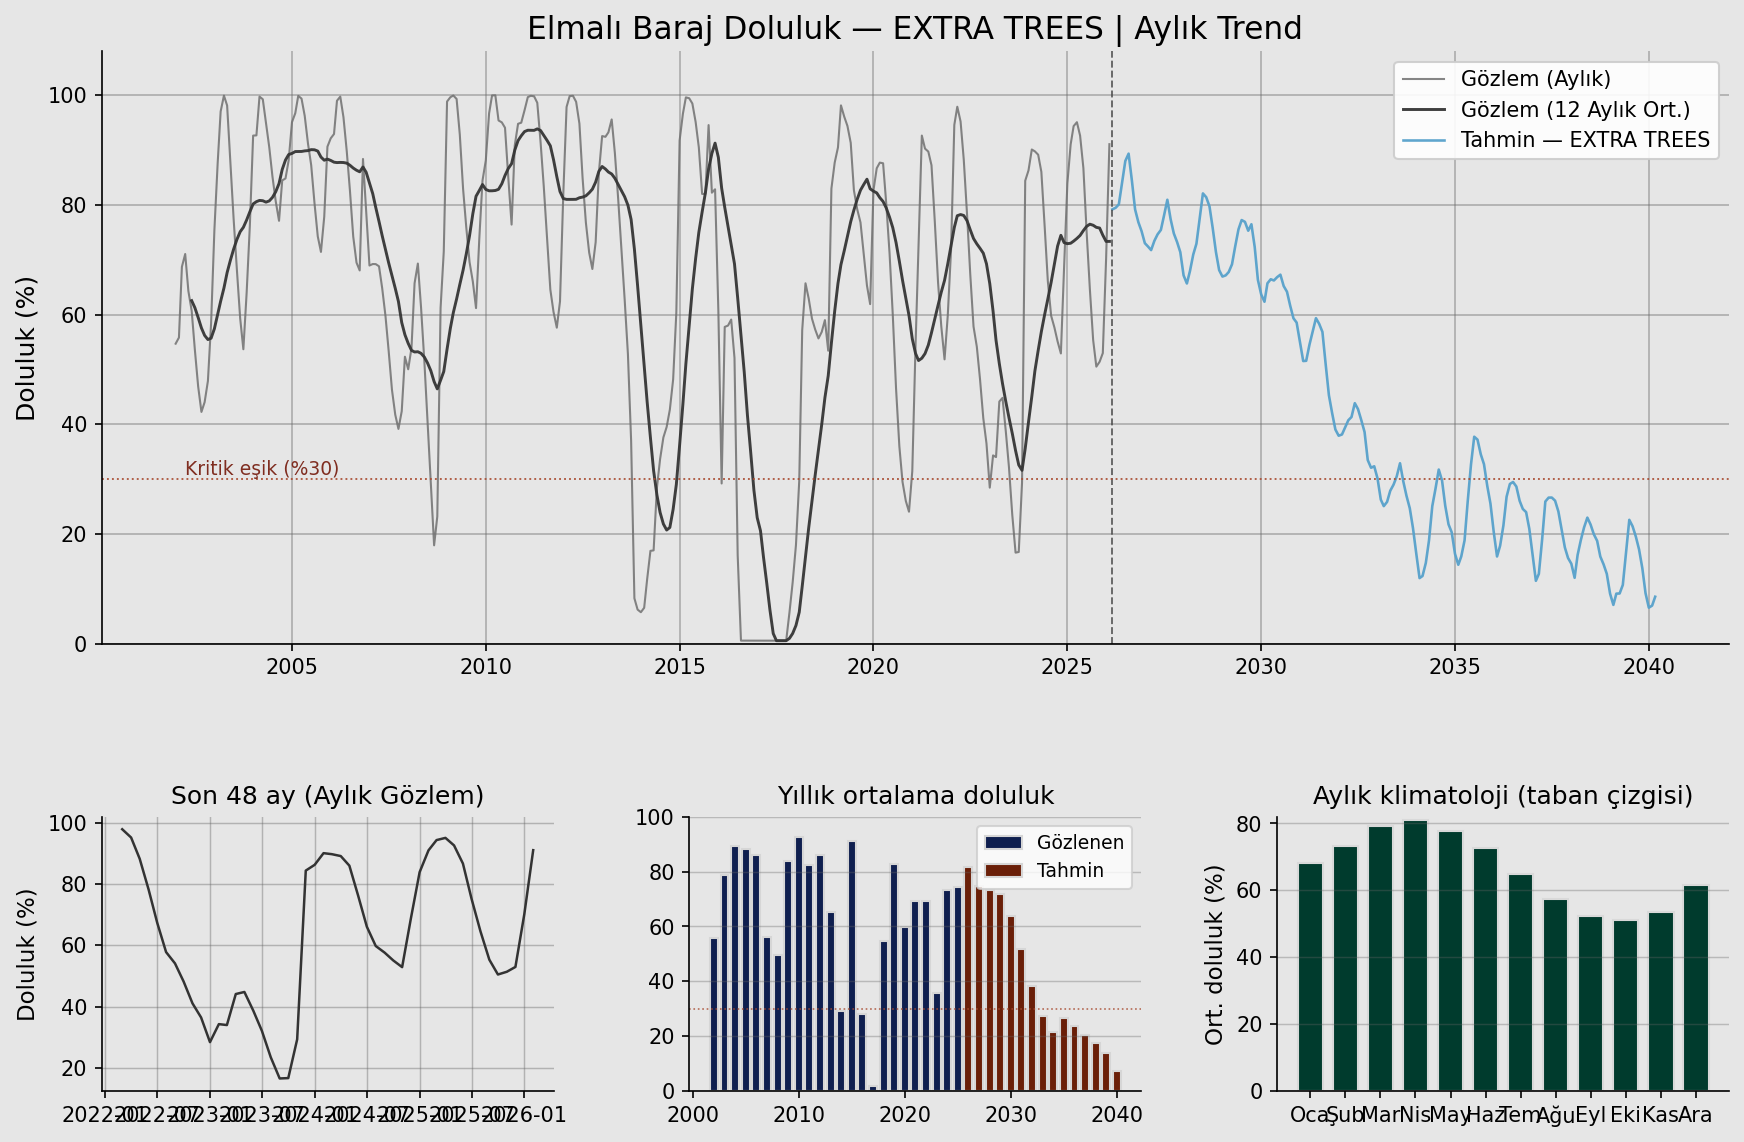
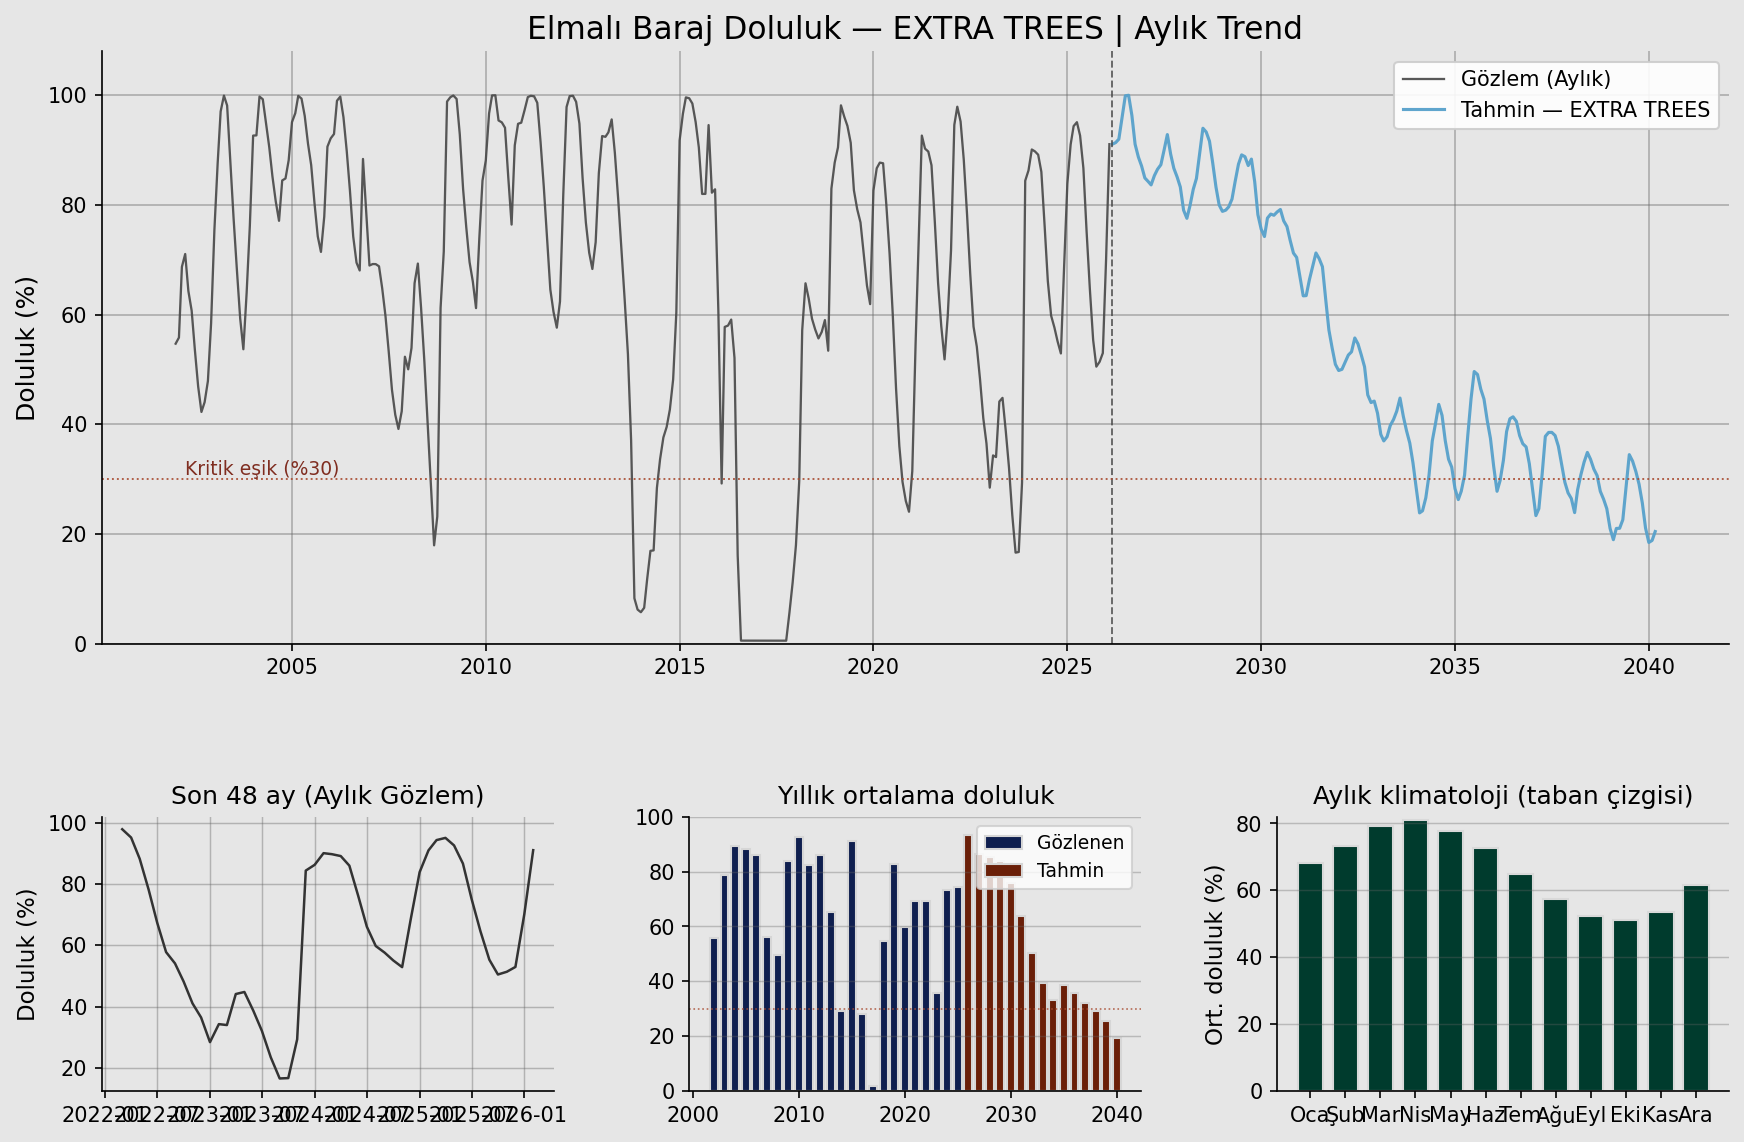
Temizle V4 terimleri, Elmalı 12 aylık ortalamayı kaldır, tahmin geçişini düzelt

diff --git a/baraj_web/index.html b/baraj_web/index.html
@@ -397,7 +397,7 @@
             <li><strong>Matematiksel Motor:</strong> Dışsal değişkenlere (sıcaklık, nem) ve geçmişin gecikmeli kopyalarına dayanır. Hareketli Ortalamalar (Moving Average) ve Entegre (I) fark denklemleri yardımıyla veri yığınlarındaki gürültüyü ayrıştırır.</li>
             <li><strong>Simülasyon Karakteristiği:</strong> Verinin "zamanla olan yapısal ilişkisi" üzerinden projeksiyon yapar. Makine öğrenmesi harmanlaması yerine saf trendi gösterir ve <em>Stochastic Residuals (Fraktal Gürültü)</em> ile iklim volatilitesini geleceğe taşır. Yüksek yaz/kış genliğine sahiptir.</li>
           </ul>
-          <p style="font-size:0.85rem;color:var(--accent);margin-top:10px;"><strong>Kullanım Bağlamı:</strong> Ani iklim şokları, mevsimsel anomali kırılmaları ve seri bağımlılığı birlikte değerlendirilirken öncelikli modeldir.</p>
+          <p style="font-size:0.85rem;color:var(--accent);margin-top:10px;"><strong>Kullanım Bağlamı:</strong> Ani iklim şokları, mevsimsel sapma kırılmaları ve seri bağımlılığı birlikte değerlendirilirken öncelikli modeldir.</p>
         </div>
 
         <div class="card">
@@ -435,7 +435,7 @@
             <li><strong>Matematiksel Motor:</strong> 2007, 2014 ve 2023 yıllarındaki şiddetli İstanbul kuraklıklarının modelli saptırmasına izin vermez. Mutlak Hata ve Karesel Hata arasında bir eşik kurarak aykırı şokları sönümler.</li>
             <li><strong>Simülasyon Karakteristiği:</strong> Ekstrem şokların merkez eğilimi bozmasını sınırlar; ana trend hattını daha dayanıklı ve dengeli biçimde korur.</li>
           </ul>
-          <p style="font-size:0.85rem;color:var(--accent);margin-top:10px;"><strong>Kullanım Bağlamı:</strong> İklim verisindeki aşırı anomali değerlerinden (outlier) etkilenmeyen dayanıklı (robust) trendlere bakarken yararlıdır.</p>
+          <p style="font-size:0.85rem;color:var(--accent);margin-top:10px;"><strong>Kullanım Bağlamı:</strong> İklim verisindeki aşırı sapma değerlerinden (outlier) etkilenmeyen dayanıklı (robust) trendlere bakarken yararlıdır.</p>
         </div>
 
         <div class="card">
@@ -558,7 +558,7 @@
 
     <section id="gemini-modeller">
       <h2>Gelişmiş Model Kataloğu (Sürüm 4 — 17 Model)</h2>
-      <p class="note">Sürüm 4 (V4), model ailesinin güncel üretim sürümüdür. Bu bölümdeki terimler sade karşılıklarıyla: <strong>logit</strong> (doluluğu 0–100 aralığında tutan dönüşüm), <strong>anomali</strong> (mevsim normalinden sapma), <strong>fizik</strong> (su dengesi kısıtları), <strong>konformal</strong> (belirsizlik aralığı kalibrasyonu).</p>
+      <p class="note">Sürüm 4 (V4), model ailesinin güncel üretim sürümüdür; tüm modeller aynı veri hazırlama, eğitim ve doğrulama protokolüyle üretilmiştir.</p>
 
       <div class="card" style="border-left: 5px solid var(--accent); background-color: rgba(67, 97, 238, 0.05); margin-bottom: 30px;">
         <h3 style="color: var(--accent); margin-top: 5px; margin-bottom: 15px;">📍 Kullanım Rehberi: Hangi Modele, Hangi Durumda Bakılmalı?</h3>
@@ -567,7 +567,7 @@
           <li><strong>Ortalama ve En Gerçekçi Gelecek Beklentisi:</strong> <span style="color: var(--accent); font-weight: bold;">ENSEMBLE_MEDIAN</span> veya <span style="font-weight: bold;">STACKING</span>. Aşırı senaryoları törpüler, en güvenli rotayı çizer.</li>
           <li><strong>En Kötü Senaryo (Şiddetli Kuraklık / Kriz) Analizi:</strong> <span style="color: #d90429; font-weight: bold;">QuantileGBM-10</span> (kesin kötümser), <span style="font-weight: bold;">SVR</span> veya <span style="font-weight: bold;">Budyko_Physics</span>. Su seviyesinin diplere vurma ihtimalini görmek için bakılmalıdır.</li>
           <li><strong>Uzun Vadeli Stabil Trend (Yönsüz):</strong> <span style="color: #2b9348; font-weight: bold;">Ridge</span>, <span style="font-weight: bold;">BayesianRidge</span> veya <span style="font-weight: bold;">ElasticNet</span>. Geçmiş su tüketim ivmesinin, gürültüden arındırılmış saf lineer gidişatını izlemek için yararlıdır.</li>
-          <li><strong>Ani İklim Şokları ve Mevsimsel Kırılmalar:</strong> <span style="color: #f77f00; font-weight: bold;">XGBoost</span>, <span style="font-weight: bold;">CatBoost</span>, <span style="font-weight: bold;">NGBoost</span> veya <span style="font-weight: bold;">ARIMAX</span>. Beklenmedik dalgalanmaları ve hidrolojik anomalileri simüle etmek için kritiktir.</li>
+          <li><strong>Ani İklim Şokları ve Mevsimsel Kırılmalar:</strong> <span style="color: #f77f00; font-weight: bold;">XGBoost</span>, <span style="font-weight: bold;">CatBoost</span>, <span style="font-weight: bold;">NGBoost</span> veya <span style="font-weight: bold;">ARIMAX</span>. Beklenmedik dalgalanmaları ve hidrolojik sapmaları simüle etmek için kritiktir.</li>
           <li><strong>Doğal Varyans (Tahminden Ziyade Desen):</strong> <span style="font-weight: bold;">RF (Random Forest)</span>, <span style="font-weight: bold;">ETR</span> veya <span style="font-weight: bold;">GBM_Q50</span>.</li>
         </ul>
       </div>
@@ -817,7 +817,7 @@
             <li>CV Pearson: <strong>0.734</strong> &middot; RMSE: <strong>40.48</strong>&thinsp;pp</li>
             <li>ε=1.20 — aşırı değerlere dayanıklı robust regresyon</li>
           </ul>
-          <p style="font-size:0.85rem;color:var(--accent);margin-top:10px;"><strong style="color:var(--accent);">Kullanım Bağlamı:</strong> İklim verisindeki aşırı anomali değerlerinden (outlier) etkilenmeyen dayanıklı (robust) trendlere bakarken yararlıdır.</p>
+          <p style="font-size:0.85rem;color:var(--accent);margin-top:10px;"><strong style="color:var(--accent);">Kullanım Bağlamı:</strong> İklim verisindeki aşırı sapma değerlerinden (outlier) etkilenmeyen dayanıklı (robust) trendlere bakarken yararlıdır.</p>
           <img class="zoomable" src="assets/v3/huber_v3_projection.png?v=20260322" alt="Huber v3"/>
         </div>
       </div>

diff --git a/index.html b/index.html
@@ -397,7 +397,7 @@
             <li><strong>Matematiksel Motor:</strong> Dışsal değişkenlere (sıcaklık, nem) ve geçmişin gecikmeli kopyalarına dayanır. Hareketli Ortalamalar (Moving Average) ve Entegre (I) fark denklemleri yardımıyla veri yığınlarındaki gürültüyü ayrıştırır.</li>
             <li><strong>Simülasyon Karakteristiği:</strong> Verinin "zamanla olan yapısal ilişkisi" üzerinden projeksiyon yapar. Makine öğrenmesi harmanlaması yerine saf trendi gösterir ve <em>Stochastic Residuals (Fraktal Gürültü)</em> ile iklim volatilitesini geleceğe taşır. Yüksek yaz/kış genliğine sahiptir.</li>
           </ul>
-          <p style="font-size:0.85rem;color:var(--accent);margin-top:10px;"><strong>Kullanım Bağlamı:</strong> Ani iklim şokları, mevsimsel anomali kırılmaları ve seri bağımlılığı birlikte değerlendirilirken öncelikli modeldir.</p>
+          <p style="font-size:0.85rem;color:var(--accent);margin-top:10px;"><strong>Kullanım Bağlamı:</strong> Ani iklim şokları, mevsimsel sapma kırılmaları ve seri bağımlılığı birlikte değerlendirilirken öncelikli modeldir.</p>
         </div>
 
         <div class="card">
@@ -435,7 +435,7 @@
             <li><strong>Matematiksel Motor:</strong> 2007, 2014 ve 2023 yıllarındaki şiddetli İstanbul kuraklıklarının modelli saptırmasına izin vermez. Mutlak Hata ve Karesel Hata arasında bir eşik kurarak aykırı şokları sönümler.</li>
             <li><strong>Simülasyon Karakteristiği:</strong> Ekstrem şokların merkez eğilimi bozmasını sınırlar; ana trend hattını daha dayanıklı ve dengeli biçimde korur.</li>
           </ul>
-          <p style="font-size:0.85rem;color:var(--accent);margin-top:10px;"><strong>Kullanım Bağlamı:</strong> İklim verisindeki aşırı anomali değerlerinden (outlier) etkilenmeyen dayanıklı (robust) trendlere bakarken yararlıdır.</p>
+          <p style="font-size:0.85rem;color:var(--accent);margin-top:10px;"><strong>Kullanım Bağlamı:</strong> İklim verisindeki aşırı sapma değerlerinden (outlier) etkilenmeyen dayanıklı (robust) trendlere bakarken yararlıdır.</p>
         </div>
 
         <div class="card">
@@ -558,7 +558,7 @@
 
     <section id="gemini-modeller">
       <h2>Gelişmiş Model Kataloğu (Sürüm 4 — 17 Model)</h2>
-      <p class="note">Sürüm 4 (V4), model ailesinin güncel üretim sürümüdür. Bu bölümdeki terimler sade karşılıklarıyla: <strong>logit</strong> (doluluğu 0–100 aralığında tutan dönüşüm), <strong>anomali</strong> (mevsim normalinden sapma), <strong>fizik</strong> (su dengesi kısıtları), <strong>konformal</strong> (belirsizlik aralığı kalibrasyonu).</p>
+      <p class="note">Sürüm 4 (V4), model ailesinin güncel üretim sürümüdür; tüm modeller aynı veri hazırlama, eğitim ve doğrulama protokolüyle üretilmiştir.</p>
 
       <div class="card" style="border-left: 5px solid var(--accent); background-color: rgba(67, 97, 238, 0.05); margin-bottom: 30px;">
         <h3 style="color: var(--accent); margin-top: 5px; margin-bottom: 15px;">📍 Kullanım Rehberi: Hangi Modele, Hangi Durumda Bakılmalı?</h3>
@@ -567,7 +567,7 @@
           <li><strong>Ortalama ve En Gerçekçi Gelecek Beklentisi:</strong> <span style="color: var(--accent); font-weight: bold;">ENSEMBLE_MEDIAN</span> veya <span style="font-weight: bold;">STACKING</span>. Aşırı senaryoları törpüler, en güvenli rotayı çizer.</li>
           <li><strong>En Kötü Senaryo (Şiddetli Kuraklık / Kriz) Analizi:</strong> <span style="color: #d90429; font-weight: bold;">QuantileGBM-10</span> (kesin kötümser), <span style="font-weight: bold;">SVR</span> veya <span style="font-weight: bold;">Budyko_Physics</span>. Su seviyesinin diplere vurma ihtimalini görmek için bakılmalıdır.</li>
           <li><strong>Uzun Vadeli Stabil Trend (Yönsüz):</strong> <span style="color: #2b9348; font-weight: bold;">Ridge</span>, <span style="font-weight: bold;">BayesianRidge</span> veya <span style="font-weight: bold;">ElasticNet</span>. Geçmiş su tüketim ivmesinin, gürültüden arındırılmış saf lineer gidişatını izlemek için yararlıdır.</li>
-          <li><strong>Ani İklim Şokları ve Mevsimsel Kırılmalar:</strong> <span style="color: #f77f00; font-weight: bold;">XGBoost</span>, <span style="font-weight: bold;">CatBoost</span>, <span style="font-weight: bold;">NGBoost</span> veya <span style="font-weight: bold;">ARIMAX</span>. Beklenmedik dalgalanmaları ve hidrolojik anomalileri simüle etmek için kritiktir.</li>
+          <li><strong>Ani İklim Şokları ve Mevsimsel Kırılmalar:</strong> <span style="color: #f77f00; font-weight: bold;">XGBoost</span>, <span style="font-weight: bold;">CatBoost</span>, <span style="font-weight: bold;">NGBoost</span> veya <span style="font-weight: bold;">ARIMAX</span>. Beklenmedik dalgalanmaları ve hidrolojik sapmaları simüle etmek için kritiktir.</li>
           <li><strong>Doğal Varyans (Tahminden Ziyade Desen):</strong> <span style="font-weight: bold;">RF (Random Forest)</span>, <span style="font-weight: bold;">ETR</span> veya <span style="font-weight: bold;">GBM_Q50</span>.</li>
         </ul>
       </div>
@@ -817,7 +817,7 @@
             <li>CV Pearson: <strong>0.734</strong> &middot; RMSE: <strong>40.48</strong>&thinsp;pp</li>
             <li>ε=1.20 — aşırı değerlere dayanıklı robust regresyon</li>
           </ul>
-          <p style="font-size:0.85rem;color:var(--accent);margin-top:10px;"><strong style="color:var(--accent);">Kullanım Bağlamı:</strong> İklim verisindeki aşırı anomali değerlerinden (outlier) etkilenmeyen dayanıklı (robust) trendlere bakarken yararlıdır.</p>
+          <p style="font-size:0.85rem;color:var(--accent);margin-top:10px;"><strong style="color:var(--accent);">Kullanım Bağlamı:</strong> İklim verisindeki aşırı sapma değerlerinden (outlier) etkilenmeyen dayanıklı (robust) trendlere bakarken yararlıdır.</p>
           <img class="zoomable" src="assets/v3/huber_v3_projection.png?v=20260322" alt="Huber v3"/>
         </div>
       </div>

diff --git a/baraj_web/elmali.html b/baraj_web/elmali.html
@@ -583,7 +583,6 @@
     <h3>Aylık Ortalama Doluluk Oranı (%)</h3>
     <div class="legend-row">
       <span><span class="leg-dot" style="background:#1765a3;"></span>Doluluk %</span>
-      <span><span class="leg-dot" style="background:#0b2a3c; border-radius:0; height:3px; width:18px;"></span>12 Aylık Ortalama</span>
       <span><span class="leg-dot" style="background:#d65a3a; border-radius:0; height:3px; width:18px;"></span>Kritik (%20)</span>
       <span><span class="leg-dot" style="background:#f4b942; border-radius:0; height:3px; width:18px;"></span>Düşük (%40)</span>
       <span><span class="leg-dot" style="background:#2b9348; border-radius:0; height:3px; width:18px;"></span>Güvenli (%80)</span>
@@ -991,15 +990,6 @@ const YEARLY_INTERCEPT = Number.isFinite(Number(ELMALI_STATS.trend_intercept))
   ? Number(ELMALI_STATS.trend_intercept)
   : 1374.4;
 
-function movingAverage(values, win = 12) {
-  return values.map((_, i) => {
-    const a = Math.max(0, i - win + 1);
-    const part = values.slice(a, i + 1).filter((v) => Number.isFinite(v));
-    if (!part.length) return null;
-    return part.reduce((s, v) => s + v, 0) / part.length;
-  });
-}
-
 function toYYYYMM(dateStr) {
   if (!dateStr) return '';
   return String(dateStr).slice(0, 7);
@@ -1046,14 +1036,12 @@ const COLOR_SUN    = '#f4b942';
   const labels = MONTHLY_SERIES.map((d) => toYYYYMM(d.date));
   const data = MONTHLY_SERIES.map((d) => d.fill_avg_pct);
   const colors = data.map((v) => (v < 25 ? COLOR_ACCENT : v < 50 ? COLOR_SUN : v > 80 ? COLOR_OK : COLOR_SEA));
-  const ma12 = movingAverage(data, 12).map((v) => (v === null ? null : Number(v.toFixed(2))));
   new Chart(document.getElementById('chartTarihsel'),{
     type:'line',
     data:{
       labels,
       datasets:[
-        {label:'Aylık Ort. Doluluk %',data,borderColor:COLOR_SEA,backgroundColor:hexToRgba(COLOR_SEA,0.12),pointBackgroundColor:colors,pointRadius:1.7,pointHoverRadius:4,borderWidth:1.8,fill:true,tension:0.2,order:2},
-        {label:'12 Aylık Ortalama',data:ma12,type:'line',borderColor:COLOR_DEEP,borderWidth:2.1,borderDash:[6,3],pointRadius:0,fill:false,order:1}
+        {label:'Aylık Ort. Doluluk %',data,borderColor:COLOR_SEA,backgroundColor:hexToRgba(COLOR_SEA,0.12),pointBackgroundColor:colors,pointRadius:1.7,pointHoverRadius:4,borderWidth:1.8,fill:true,tension:0.2,order:2}
       ]
     },
     options:{
@@ -2531,7 +2519,7 @@ document.addEventListener('DOMContentLoaded', () => {
     });
   });
 
-  const galleryVersion = '20260326-4';
+  const galleryVersion = '20260326-5';
   const modal = document.getElementById('img-modal');
   const modalImg = document.getElementById('img-modal-image');
   const modalCap = document.getElementById('img-modal-caption');

diff --git a/README.md b/README.md
@@ -48,7 +48,7 @@ Hackhaton/
 - Ensemble ve konsensus paketleri: farklı model ailelerinden stabil birleşimler
 - Su dengesi ve senaryo simülasyonları: iklim, kullanım ve buharlaşma etkileri ile hacim tabanlı güncelleme
 - Olasılıksal yaklaşım: quantile tabanlı tahminler ve belirsizlik bantları
-- Konformal/kalibrasyon adımları: doğruluk ve güven aralığı iyileştirme
+- Güven aralığı kalibrasyon adımları: doğruluk ve belirsizlik aralığı iyileştirme
 - Validasyon ve stres testleri: holdout, walk-forward, senaryo testleri
 
 ## Web sunumu
